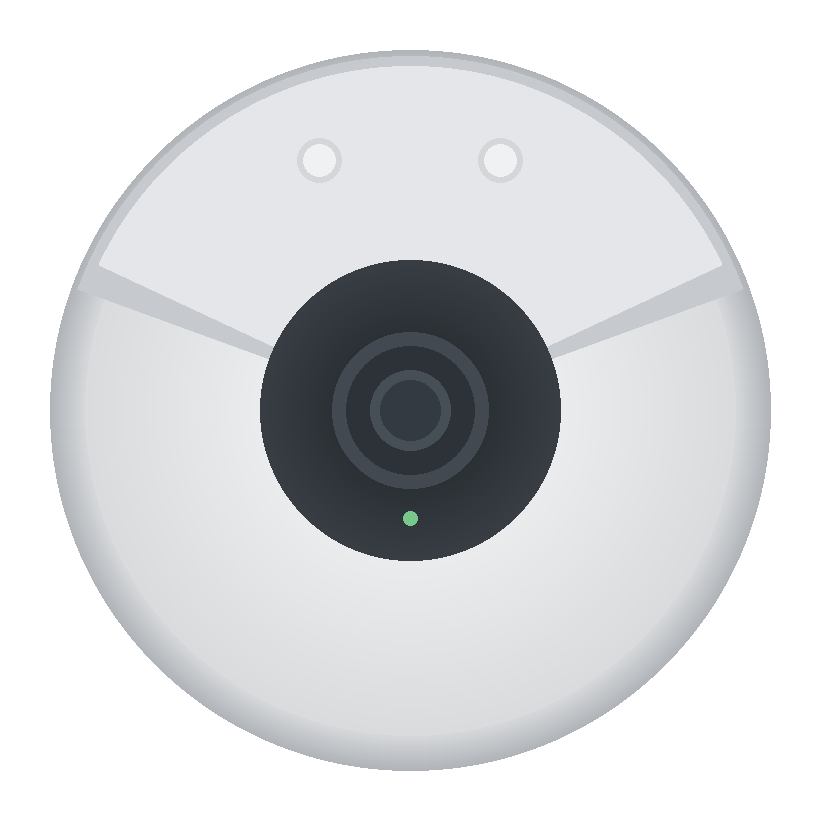
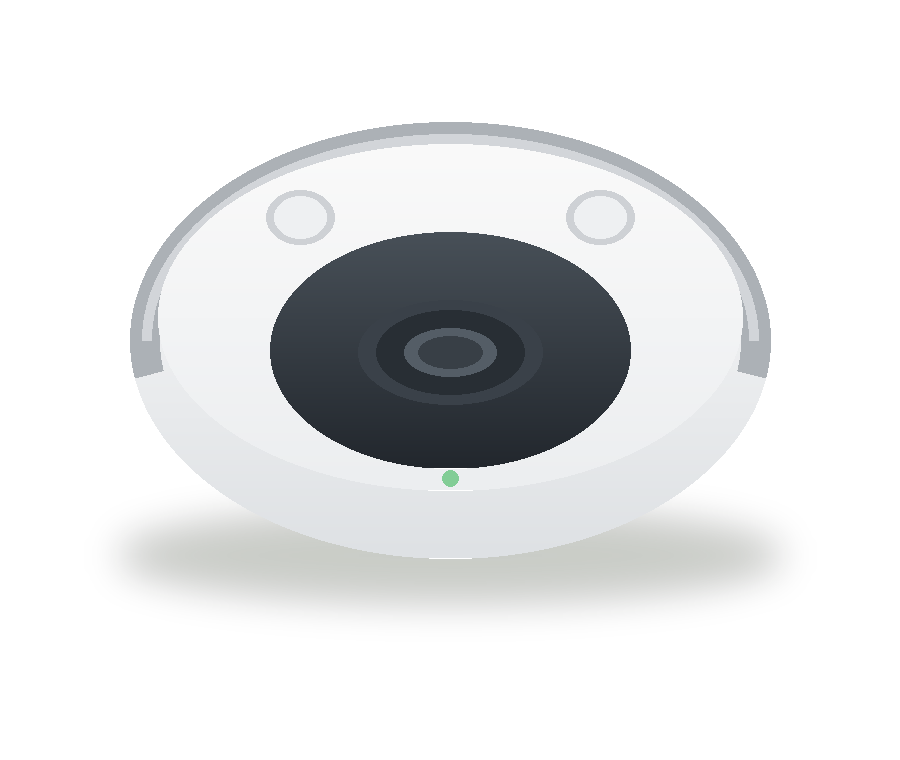
Robot en perspectiva 3/4, anillos estilo mockup con iconos y botón de engranaje

diff --git a/roomba/web/index.html b/roomba/web/index.html
@@ -44,6 +44,12 @@
   nav button:hover { background: var(--soft); color: var(--text); }
   nav button.active { background: var(--ring); color: var(--green); font-weight: 600; }
   .conn { display: flex; align-items: center; gap: 7px; font-size: 13px; color: var(--dim); margin-left: 12px; }
+  .gear {
+    border: none; background: var(--soft); font-size: 15px; cursor: pointer;
+    width: 34px; height: 34px; border-radius: 50%; margin-left: 10px;
+    transition: background .15s;
+  }
+  .gear:hover { background: var(--ring); }
   .dot { width: 9px; height: 9px; border-radius: 50%; background: var(--dim); }
   .dot.ok { background: var(--ok); }
   .dot.bad { background: var(--bad); }
@@ -54,7 +60,7 @@
   .statusline.ok { color: var(--green); }
   .statusline.warn { color: var(--warn); }
   .statusline.bad { color: var(--bad); }
-  .robot-img { display: block; width: 190px; margin: 26px 0 24px; filter: drop-shadow(0 14px 18px rgba(40, 50, 30, 0.18)); }
+  .robot-img { display: block; width: 250px; margin: 20px 0 10px; filter: drop-shadow(0 16px 16px rgba(40, 50, 30, 0.10)); }
   .maint-card {
     background: var(--card); border-radius: 22px; padding: 20px 24px;
     box-shadow: 0 10px 30px rgba(50, 60, 35, 0.08);
@@ -159,6 +165,7 @@
     <button data-view="programaciones">Programaciones</button>
   </nav>
   <span class="conn"><span class="dot" id="conn-dot"></span><span id="conn-text">Conectando…</span></span>
+  <button class="gear" id="btn-gear" title="Detalles del robot">⚙</button>
 </div>
 
 <main>
@@ -166,7 +173,7 @@
     <div class="scene">
       <h1>Tu casa, en calma</h1>
       <div class="statusline" id="statusline">Esperando estado del robot…</div>
-      <img class="robot-img" src="/robot.png?v=4" alt="Roomba">
+      <img class="robot-img" src="/robot.png?v=5" alt="Roomba">
       <div class="maint-card">
         <div class="section-label">ESTADO DE MANTENIMIENTO</div>
         <div class="rings">
@@ -261,7 +268,7 @@
     </div>
   </section>
 </main>
-<div class="version">interfaz web v4</div>
+<div class="version">interfaz web v5</div>
 
 <script>
 const $ = (id) => document.getElementById(id);
@@ -297,13 +304,13 @@ async function api(path, body) {
 function ring(el, frac, color, icon, value, label) {
   const off = C * (1 - Math.max(0, Math.min(1, frac)));
   el.innerHTML = `
-    <svg width="92" height="92">
-      <circle cx="46" cy="46" r="34" stroke="var(--ring)" stroke-width="7" fill="#fff"/>
-      <circle cx="46" cy="46" r="34" stroke="${color}" stroke-width="7" fill="none"
+    <svg width="100" height="100">
+      <circle cx="50" cy="50" r="36" stroke="var(--ring)" stroke-width="9" fill="#fff"/>
+      <circle cx="50" cy="50" r="36" stroke="${color}" stroke-width="9" fill="none"
         stroke-linecap="round" stroke-dasharray="${C}" stroke-dashoffset="${off}"
-        transform="rotate(-90 46 46)"/>
-      <text x="46" y="42" text-anchor="middle" font-size="15">${icon}</text>
-      <text x="46" y="62" text-anchor="middle" font-size="13" font-weight="700"
+        transform="rotate(-90 50 50)"/>
+      <text x="50" y="46" text-anchor="middle" font-size="17">${icon}</text>
+      <text x="50" y="68" text-anchor="middle" font-size="14" font-weight="700"
         fill="var(--text)" font-family="inherit">${value}</text>
     </svg>
     <div class="lbl">${label}</div>`;
@@ -494,6 +501,11 @@ $("btn-load-scheds").addEventListener("click", async () => {
     });
     log(`✓ ${rows.length} programación(es) cargadas`);
   } catch (e) { log("✗ No se pudieron cargar programaciones: " + e.message); }
+});
+
+$("btn-gear").addEventListener("click", () => {
+  const det = $("details");
+  det.style.display = det.style.display === "none" ? "block" : "none";
 });
 
 ring($("ring-bat-box"), 0, "var(--dim)", "🔋", "—", "Batería");
